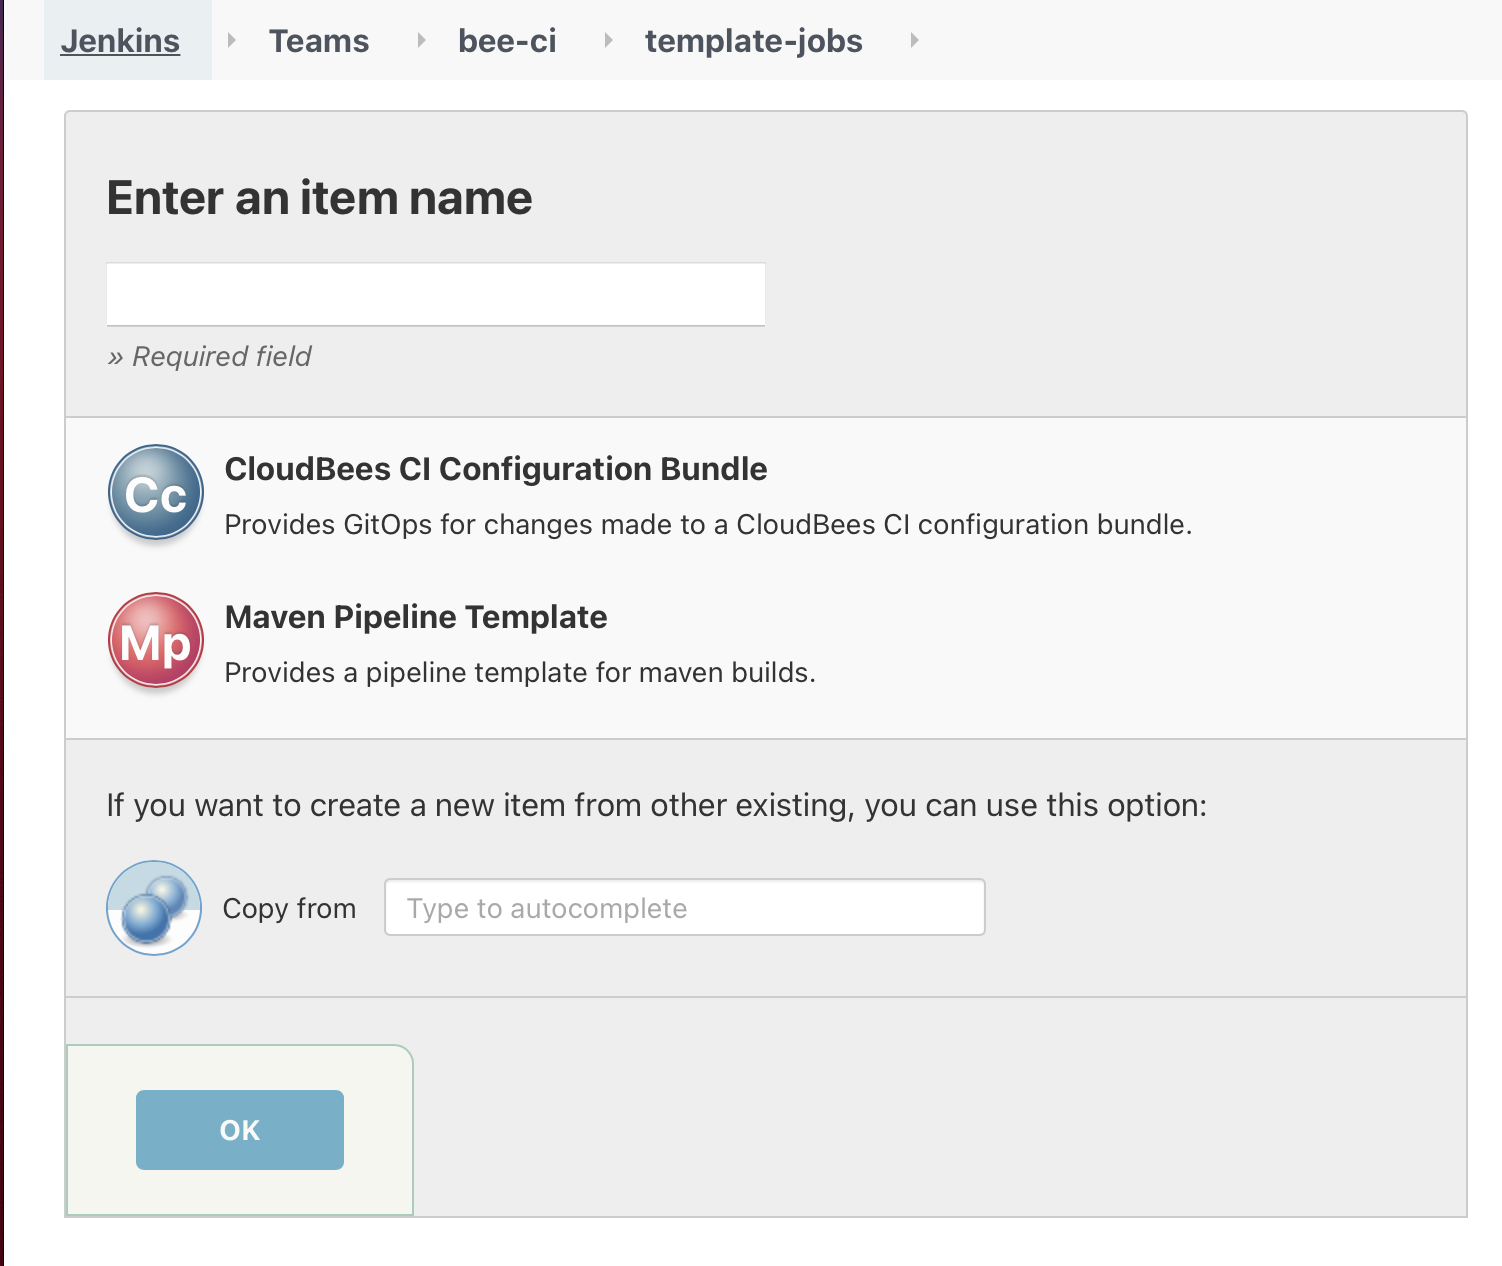
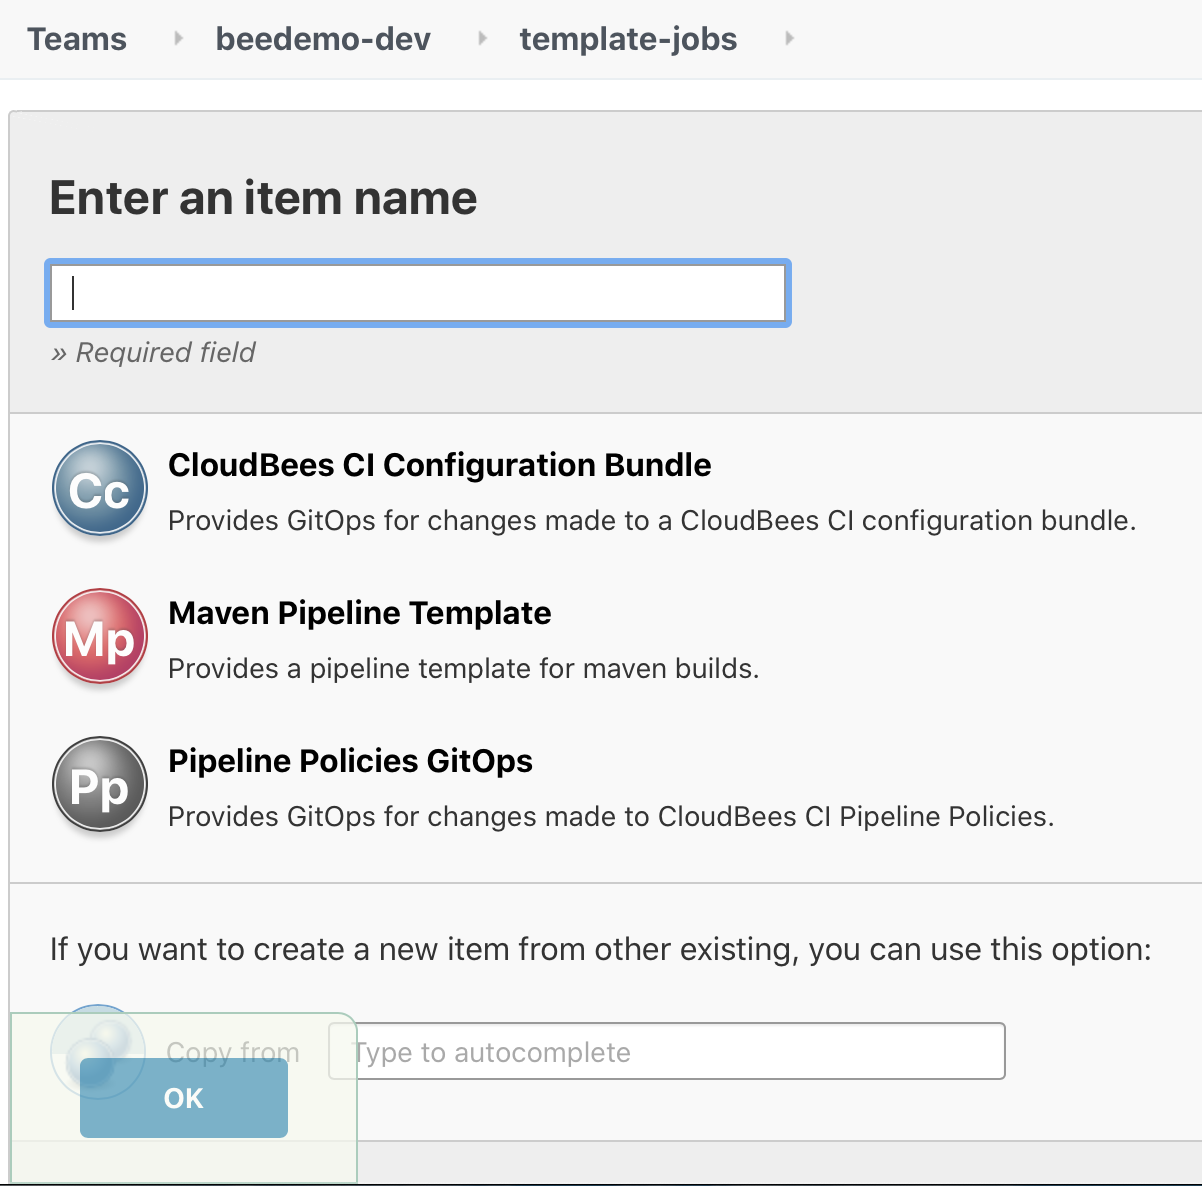
revert changes for pipeline policies

diff --git a/labs/cloudbees-ci/content/module-1/pipeline-template-catalog.md b/labs/cloudbees-ci/content/module-1/pipeline-template-catalog.md
@@ -46,7 +46,7 @@ The [CloudBees CI Folders Plus plugin](https://docs.cloudbees.com/docs/cloudbees
 
 1. Navigate back to the top-level of your CloudBees CI ***managed controller*** (Jenkins instance) and click on **New Item** in the left menu.
 2. For the **item name** enter ***template-jobs***, select **Folder** (be sure to select **Folder** and not **Folder Template**) as the item type and then click the **OK** button. ![Restricted Folder Item](new-folder-click.png?width=50pc)
-3. Scroll to the bottom of the folder configuration and click on **Restrict the kind of children in this folder** - a [CloudBees Folders Plus](https://docs.cloudbees.com/docs/cloudbees-core/latest/cloud-secure-guide/folders-plus) feature - and then select **CloudBees CI Configuration Bundle** and **Maven Pipeline Template** (the template jobs we will be using throughout the rest of the workshop) - and then hit the **Save** button. ![Restricted Folder Items](restricted-items-check.png?width=40pc)
-4. Now when you click on **New Item** in the **template-jobs** folder you will be restricted to the **CloudBees CI Configuration Bundle** and **Maven Pipeline Template** item types. This reduces confusion of what job types to use and enforces the use of approved templates. ![Restricted Folder New Item](restricted-folder-new-item.png?width=30pc)
+3. Scroll to the bottom of the folder configuration and click on **Restrict the kind of children in this folder** - a [CloudBees Folders Plus](https://docs.cloudbees.com/docs/cloudbees-core/latest/cloud-secure-guide/folders-plus) feature - and then select **CloudBees CI Configuration Bundle**, **Maven Pipeline Template** and **Pipeline Policies GitOps** (the template jobs we will be using throughout the rest of the workshop) - and then hit the **Save** button. ![Restricted Folder Items](restricted-items-check.png?width=40pc)
+4. Now when you click on **New Item** in the **template-jobs** folder you will be restricted to the **CloudBees CI Configuration Bundle**, **Maven Pipeline Template** and **Pipeline Policies GitOps** item types. This reduces confusion of what job types to use and enforces the use of approved templates. ![Restricted Folder New Item](restricted-folder-new-item.png?width=30pc)
 
 **For instructor led workshops please <a href="https://cloudbees-days.github.io/cloudbees-field-workshops/cloudbees-ci/#pipeline-template-catalog-overview">return to the workshop slides</a>**   
